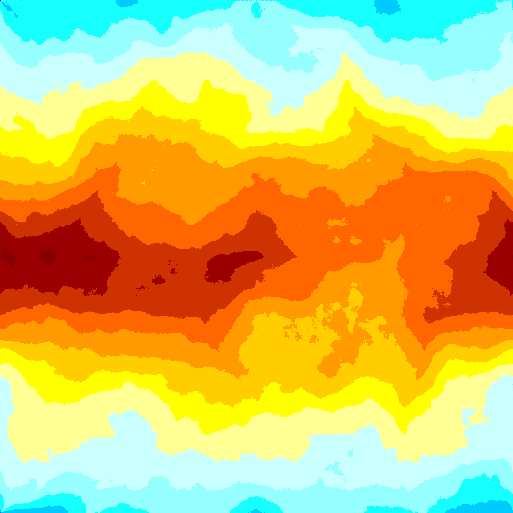
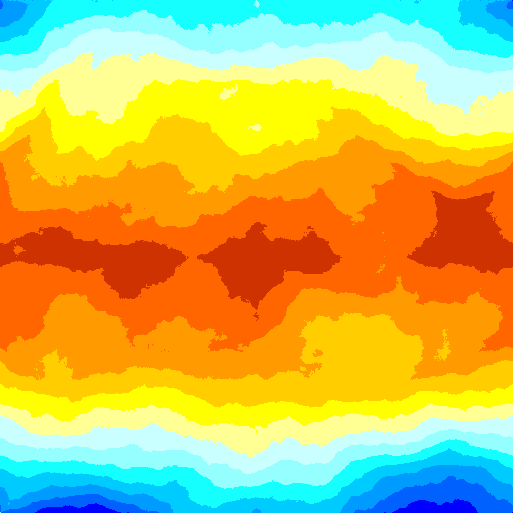
got really far

diff --git a/run.py b/run.py
@@ -1,10 +1,10 @@
 import numpy as np
 import random
 from terragen.terrain import make_terrain
-from terragen.utils import Timer, log, elevation_at_percent_surface, latitude_ratio
+from terragen.utils import Timer, log, elevation_at_percent_surface, latitude_ratio, randomize_color
 from terragen.constants import TERRAIN, TEMPERATURE
 from terragen.draw import draw_image
-from terragen.rivers import make_rivers
+from terragen.river2 import make_rivers
 from PIL import Image
 
 if __name__ == "__main__":
@@ -51,8 +51,8 @@ if __name__ == "__main__":
         def terrain_color_func(value, x, y):
             for min_value, color in TERRAIN:
                 if value <= min_value:
-                    return color
-            return color
+                    return randomize_color(color, dist=3)
+            return randomize_color(color, dist=3)
 
         draw_image(heightmap, delta_sea_level_func, terrain_color_func, 'terrain', SIZE)
 
@@ -105,21 +105,22 @@ if __name__ == "__main__":
 
         draw_image(temperature_map, temp_get_func, terrain_color_func, 'temp', SIZE)
 
-    # rivers, world = make_rivers(world)
-    # with Timer('Drawing rivers'):
-    #     def delta_sea_level_func(cell):
-    #         if cell < world['sea_level']:
-    #             return -(100 - (cell / world['sea_level']) * 100)
-    #         else:
-    #             return ((cell - world['sea_level']) / (world['max_height'] - world['sea_level'])) * 100
-    #
-    #     def terrain_color_func(value, x, y):
-    #         if world['river_array'][x, y]:
-    #             return (0, 0, 255)
-    #         for min_value, color in TERRAIN:
-    #             if value <= min_value:
-    #                 return color
-    #         return color
-    #
-    #     draw_image(heightmap, delta_sea_level_func, terrain_color_func, 'rivers', SIZE)
-    # print(np.transpose(np.nonzero(world['river_array'])))
+    with Timer('Making rivers'):
+        flowmap = make_rivers(world)
+
+    print(flowmap[10, 10])
+    min_flow = np.amin(flowmap)
+    max_flow = np.amax(flowmap)
+    print("max: %i, min: %i" % (max_flow, min_flow))
+    with Timer('Drawing rivers'):
+        def delta_sea_level_func(cell):
+            if cell == 0:
+                return -1
+            return min(int(cell), 255)
+
+        def terrain_color_func(value, x, y):
+            if value == -1:
+                return (100, 100, 100)
+            return (value / 6, value / 3, value)
+
+        draw_image(flowmap, delta_sea_level_func, terrain_color_func, 'flow', SIZE)

diff --git a/terragen/river2.py b/terragen/river2.py
@@ -1,0 +1,50 @@
+import numpy as np
+from random import randint
+from terragen.utils import log, find_neighbors, cell_north, cell_east, cell_west, cell_south
+
+
+def make_rivers(world):
+    """ Make rivers """
+    # a 2D array of values at each pixel representing the amount of water that has flowed through
+    # this pixel into a neighbor
+    rainflow = np.zeros(world['heightmap'].shape, dtype=int)
+
+    # a working array that represents the rain flow after a certain number of calls to flow()
+    waterlevel = np.zeros(world['heightmap'].shape, dtype=int)
+
+    # an array of (x, y) coordinates of the nearest lowest neighbor
+    lowest_neighbors = np.empty(world['heightmap'].shape, dtype='int, int')
+
+    x_, y_ = rainflow.shape
+    for x in xrange(x_):
+        for y in xrange(y_):
+            altitude = world['heightmap'][x, y]
+            if altitude > world['sea_level']:
+                rainflow[x, y] = 1
+                waterlevel[x, y] = 1
+                their_altitude, t_x, t_y = find_neighbors(world['heightmap'], (x, y), sort=True)[0]
+                if their_altitude < world['heightmap'][x, y]:
+                    lowest_neighbors[x, y] = (t_x, t_y)
+
+    print(lowest_neighbors[10, 10])
+
+    def flow():
+        x_, y_ = rainflow.shape
+        for x in xrange(x_):
+            for y in xrange(y_):
+                if waterlevel[x, y] != 0: # land pixels
+                    # get the lowest neighbor
+                    n = lowest_neighbors[x, y]
+
+                    # is the lowest neighbor less than me?
+                    if n:
+                        # move my water to the neighbor
+                        waterlevel[n[0], n[1]] += waterlevel[x, y]
+                        # rainflow[n[0], n[1]] += waterlevel[x, y]
+                        waterlevel[x, y] = 0
+
+    for i in xrange(3):
+        print('Flow %i' % i)
+        flow()
+
+    return waterlevel

diff --git a/terragen/rivers.py b/terragen/rivers.py
@@ -138,24 +138,24 @@ def make_rivers(world):
         current_elevation = get_elevation(current_location)
         can_continue = True
         while current_elevation >= world['sea_level'] and can_continue:
+
+
+            # get neighboring pixels
+            neighbors = find_neighbors(world['heightmap'],
+                                       current_location,
+                                       sort=True)[0]
+            # lowest neighbor is higher  than me
+            # if neighbors[0] > current_elevation):
+            #     # make a lake here
+            #     pass
+            next_segment = neighbors[1], neighbors[2]
             # Is there a river here?
-            if is_river(current_location):
+            if is_river(next_segment):
                 print('River found at %i, %i', current_location)
                 can_continue = False
-            else:
-
-                # get neighboring pixels
-                neighbors = find_neighbors(world['heightmap'],
-                                           current_location,
-                                           sort=True)[0]
-                # lowest neighbor is higher  than me
-                # if neighbors[0] > current_elevation):
-                #     # make a lake here
-                #     pass
-                next_segment = neighbors[1], neighbors[2]
-                make_river_segment(current_location)
-                current_location = next_segment
-                current_elevation = get_elevation(current_location)
+            make_river_segment(current_location)
+            current_location = next_segment
+            current_elevation = get_elevation(current_location)
 
         # river = River(world, source)
         # river.flow()

diff --git a/terragen/utils.py b/terragen/utils.py
@@ -1,3 +1,4 @@
+import random
 import time
 import datetime
 from colored import fore, style
@@ -134,3 +135,24 @@ def latitude_ratio(size, x):
     else:
         ratio = (1 - ratio) / 0.5
     return ratio
+
+def limit(value):
+    if value > 255:
+        return 255
+    if value < 0:
+        return 0
+    return value
+
+def randomize_color(color, dist=1):
+    colors = [
+        color,
+        (limit(color[0] - dist), limit(color[1] - dist), limit(color[2] - dist)),
+        (limit(color[0] + dist), limit(color[1] + dist), limit(color[2] + dist)),
+        (limit(color[0] - dist), limit(color[1] + dist), limit(color[2] - dist)),
+        (limit(color[0] + dist), limit(color[1] - dist), limit(color[2] - dist)),
+        (limit(color[0] - dist), limit(color[1] + dist), limit(color[2] - dist)),
+        (limit(color[0] - dist), limit(color[1] - dist), limit(color[2] + dist)),
+        (limit(color[0] + dist), limit(color[1] - dist), limit(color[2] + dist)),
+        (limit(color[0] - dist), limit(color[1] + dist), limit(color[2] - dist))
+    ]
+    return random.choice(colors)

diff --git a/setup.py b/setup.py
@@ -1,0 +1,8 @@
+from distutils.core import setup
+from distutils.extension import Extension
+from Cython.Distutils import build_ext
+
+setup(
+    cmdclass = {'build_ext': build_ext},
+    ext_modules = [Extension("generator", ["cython_generator.pyx"])]
+)

diff --git a/README.md b/README.md
@@ -201,6 +201,24 @@ loop over each river:
 
 ```
 
+
+### New river algorithm
+Modeling fluid dynamics
+
+
+At every land pixel, drop a certain amount of water
+step:
+    for each land pixel:
+        move that water to the lowest neighboring pixel
+        each unit of water moved = 1 water flow
+        if there is no lowest neighboring pixel, keep raising the level to check for a neighboring land pixel until
+run 'step' a set number of times (world parameter?)
+land pixels with a certain amount of water flow are rivers
+
+analysis:
+will make short rivers that flow into larger rivers
+erosion can be modeled by the water flow
+
 ## Moisture
 - Rivers produce a lot of moisture
 - coastlines some produce moisture
